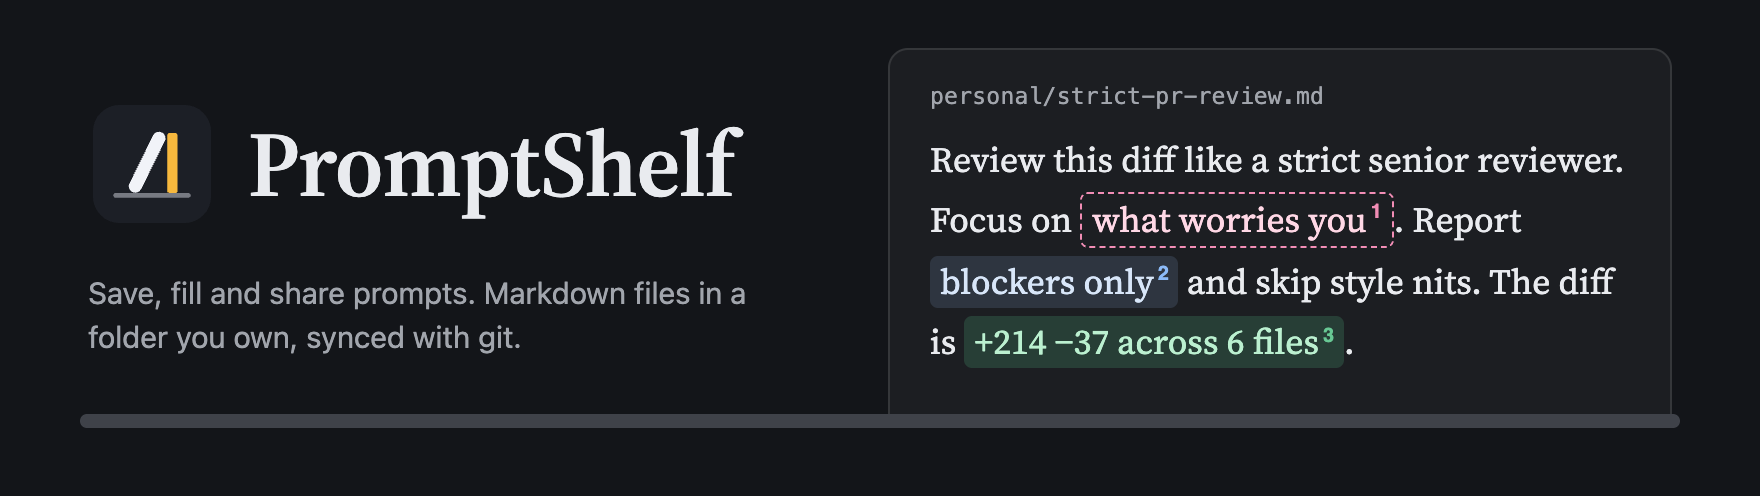
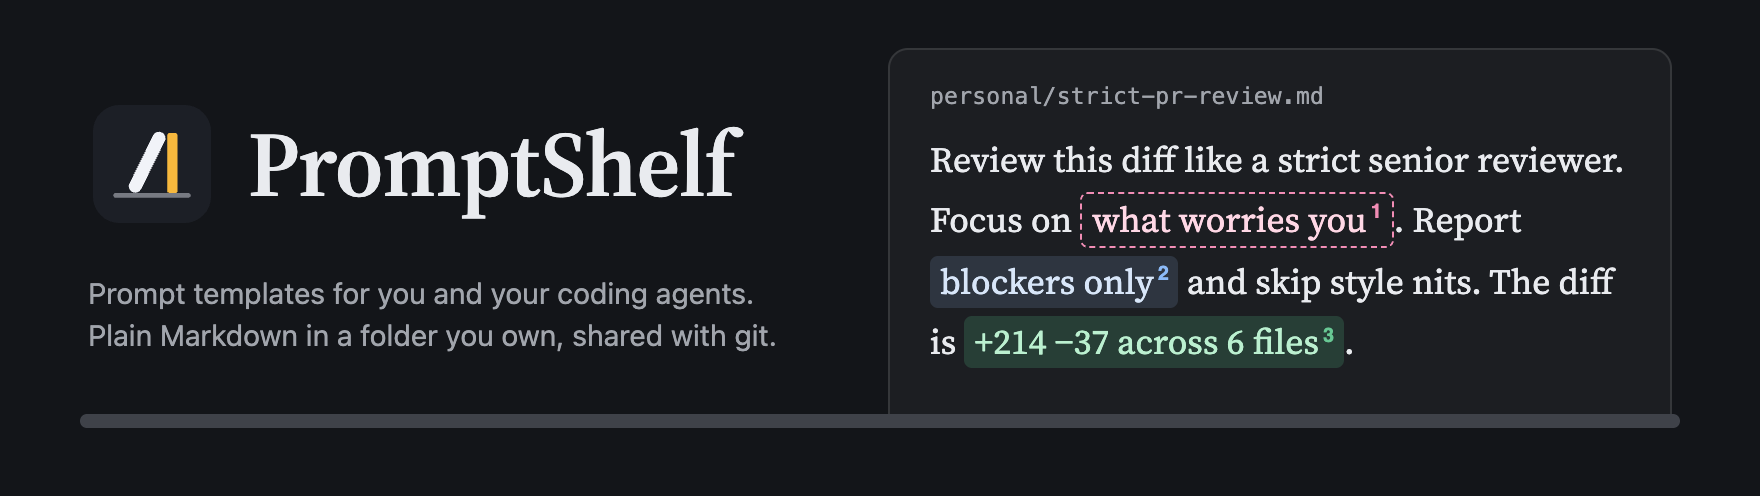
docs: say what PromptShelf is in the header subtitle
The subtitle now names the product (prompt templates), who uses it
(you and coding agents) and how it stores them (Markdown and git).

Changed region(s): [[0.0312, 0.5746, 0.4375, 0.6351], [0.0312, 0.6653, 0.4375, 0.7258]]

diff --git a/docs/images/header.html b/docs/images/header.html
@@ -65,7 +65,7 @@
     position: absolute; left: 40px; right: 40px; bottom: 34px; height: 7px;
     border-radius: 4px; background: var(--shelf);
   }
-  .brand { position: absolute; left: 44px; top: 50px; width: 380px; }
+  .brand { position: absolute; left: 44px; top: 50px; width: 384px; }
   .row { display: flex; align-items: center; gap: 16px; }
   .row img { width: 64px; height: 64px; }
   h1 {
@@ -73,7 +73,7 @@
     font-size: 46px; letter-spacing: -0.01em; line-height: 1;
     font-variation-settings: "opsz" 48;
   }
-  .tag { margin-top: 22px; font-size: 15px; line-height: 1.45; color: var(--ink2); max-width: 340px; }
+  .tag { margin-top: 22px; font-size: 14.5px; line-height: 1.45; color: var(--ink2); max-width: 384px; }
 
   .card {
     position: absolute; right: 44px; bottom: 41px; width: 392px;
@@ -111,7 +111,7 @@
       <img class="icon-dark" src="../design/logo/promptshelf-icon-dark.svg" alt="" />
       <h1>PromptShelf</h1>
     </div>
-    <p class="tag">Save, fill and share prompts. Markdown files in a folder you own, synced with git.</p>
+    <p class="tag">Prompt templates for you and your coding agents.<br />Plain Markdown in a folder you own, shared with git.</p>
   </div>
 
   <div class="card">

diff --git a/README.md b/README.md
@@ -1,6 +1,6 @@
 <picture>
   <source media="(prefers-color-scheme: dark)" srcset="docs/images/header-dark.png" />
-  <img src="docs/images/header-light.png" alt="PromptShelf: save, fill and share prompts. A prompt file with three filled blanks sits on a shelf." width="880" />
+  <img src="docs/images/header-light.png" alt="PromptShelf: prompt templates for you and your coding agents. Plain Markdown in a folder you own, shared with git. A prompt file with three filled blanks sits on a shelf." width="880" />
 </picture>
 
 [![crates.io](https://img.shields.io/crates/v/promptshelf)](https://crates.io/crates/promptshelf)
